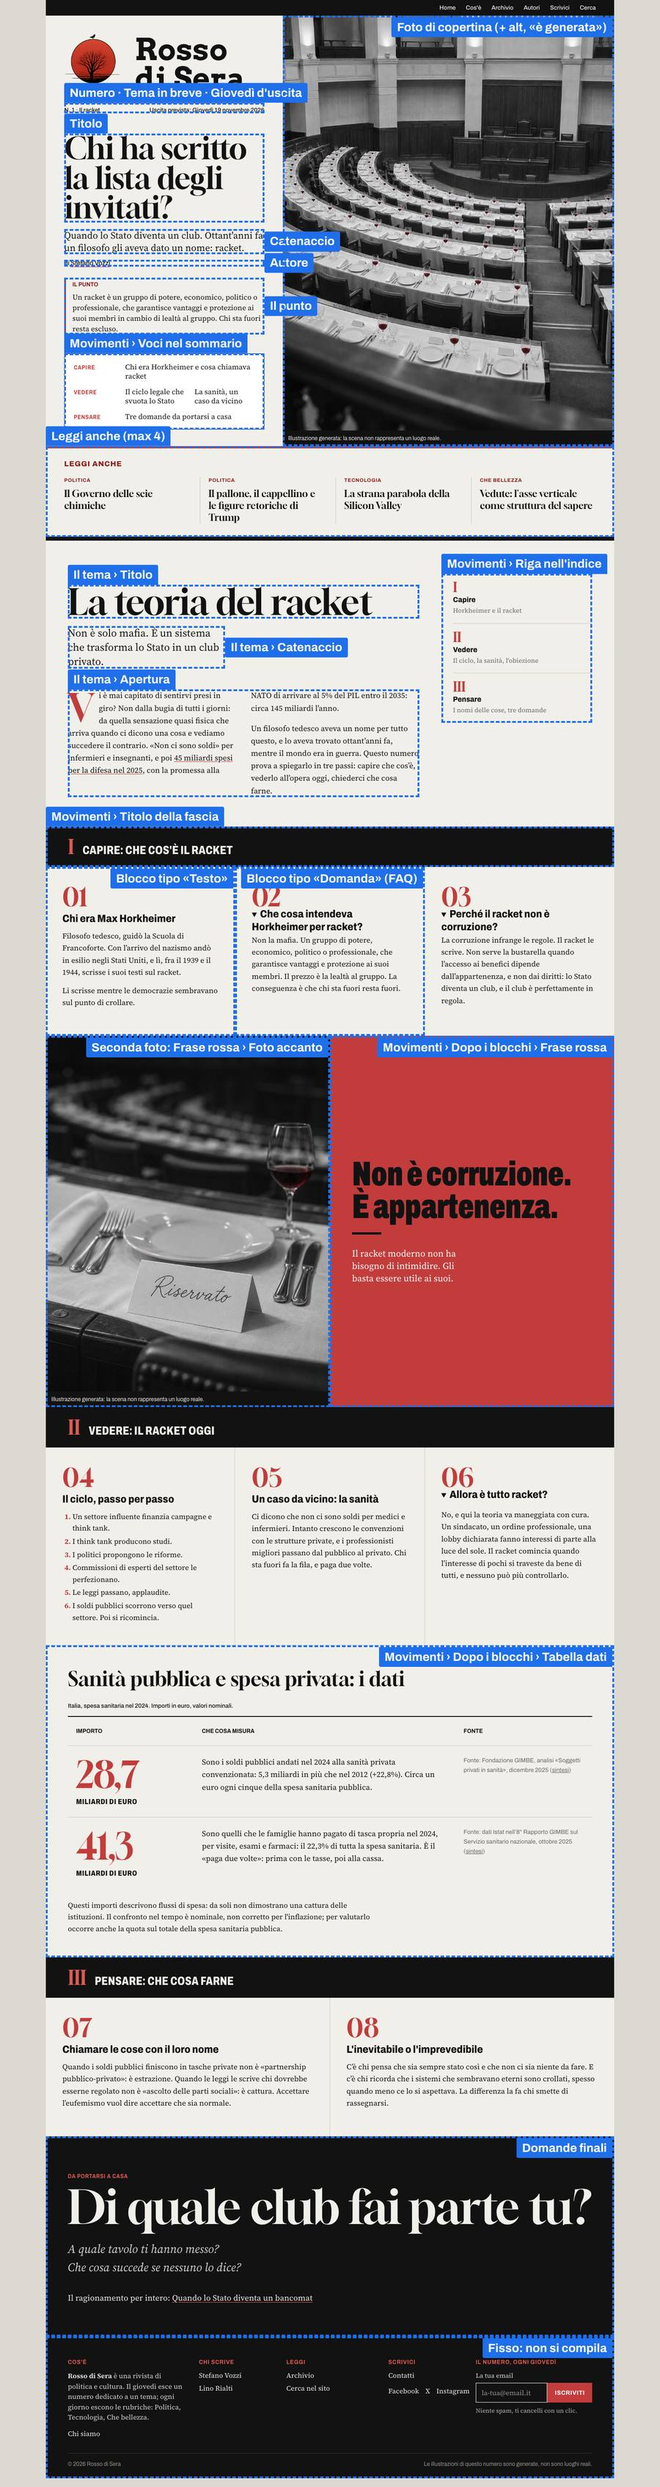
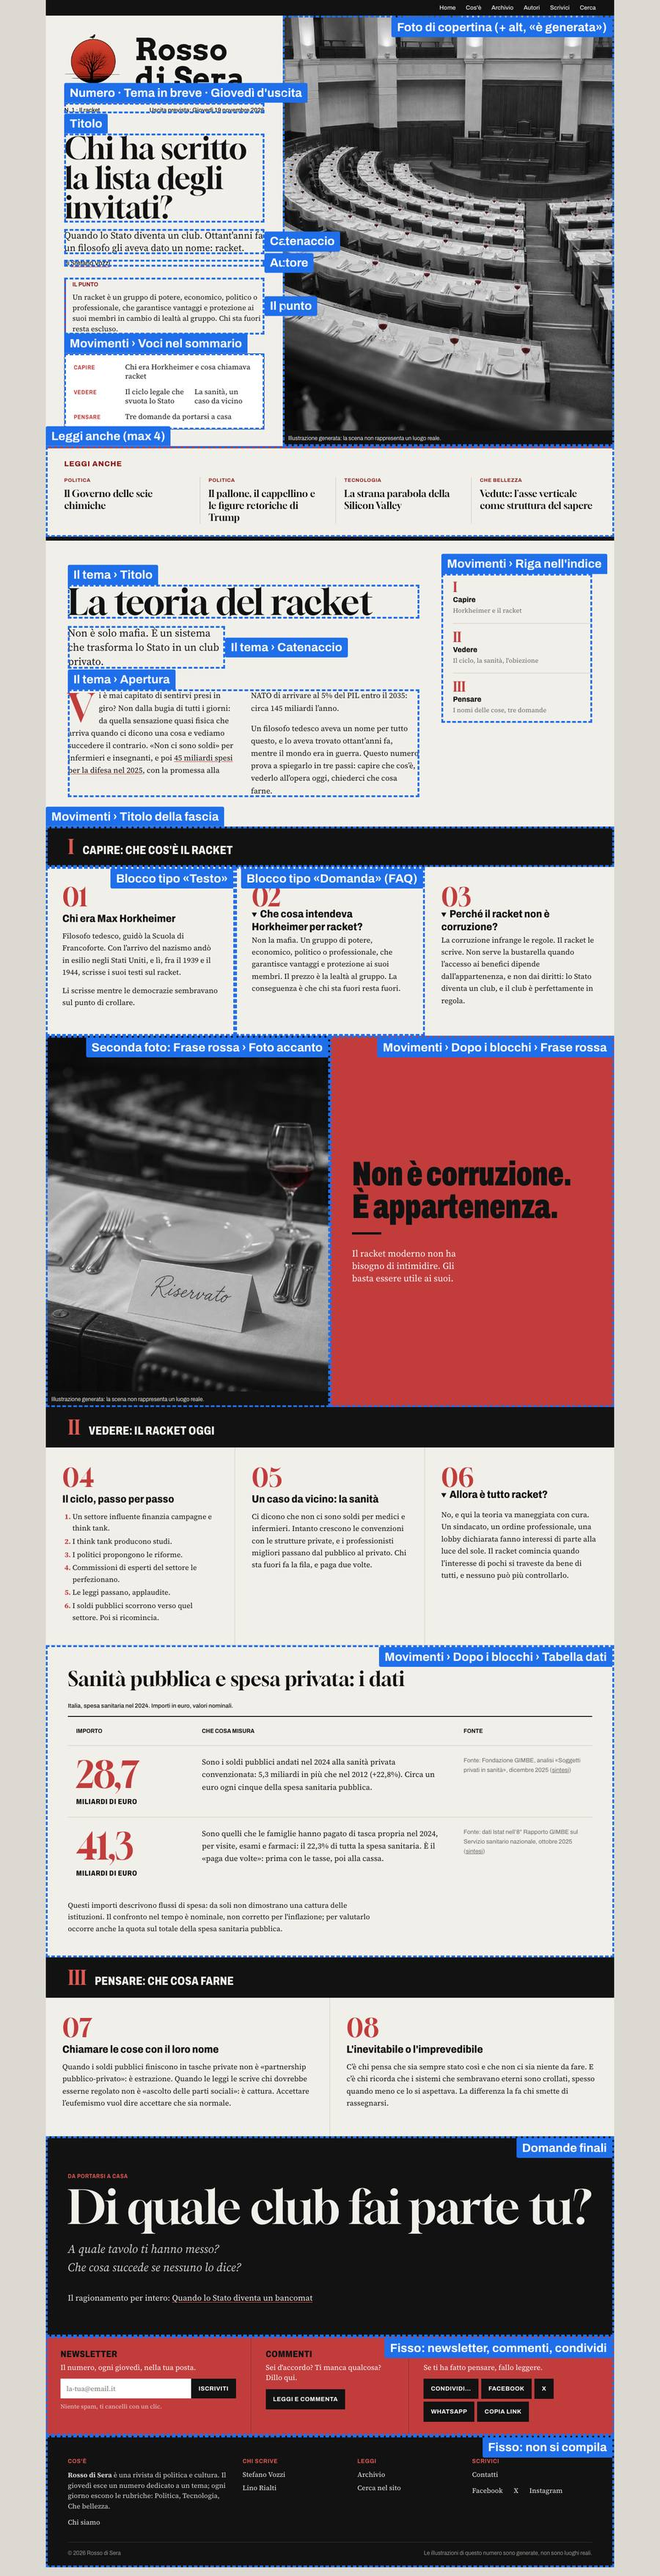
Numero: fascia rossa con newsletter, commenti e condividi tra le domande e la gerenza; gerenza sistemata sul telefono

diff --git a/_layouts/numero.html b/_layouts/numero.html
@@ -177,6 +177,50 @@
 {% endfor %}
 {% if page.articolo_origine %}<p class="dopo">Il ragionamento per intero: <a href="{{ page.articolo_origine.url | relative_url }}">{{ page.articolo_origine.titolo }}</a></p>{% endif %}
 </section>
+
+<!-- AZIONI: newsletter, commenti, condividi -->
+<section class="azioni" aria-label="Dopo la lettura">
+<div class="az-col">
+<div class="az-et">Newsletter</div>
+<form action="https://assets.mailerlite.com/jsonp/2497131/forms/194685494634742919/subscribe" class="rds-nl-form" method="post" target="_blank">
+<label class="az-txt" for="nl-email">Il numero, ogni giovedì, nella tua posta.</label>
+<div class="rds-nl-row">
+<input autocomplete="email" id="nl-email" name="fields[email]" placeholder="la-tua@email.it" required type="email">
+<button class="rds-nl-btn" type="submit">Iscriviti</button>
+</div>
+<input aria-hidden="true" autocomplete="off" class="rds-nl-hp" name="website" tabindex="-1" type="text">
+<input name="ml-submit" type="hidden" value="1">
+<input name="anticsrf" type="hidden" value="true">
+<p aria-live="polite" class="rds-nl-status" role="status">Niente spam, ti cancelli con un clic.</p>
+</form>
+</div>
+<div class="az-col">
+<div class="az-et">Commenti</div>
+<p class="az-txt">Sei d'accordo? Ti manca qualcosa? Dillo qui.</p>
+<button class="az-btn" type="button" aria-expanded="false" aria-controls="commenti" id="apri-commenti">Leggi e commenta</button>
+</div>
+<div class="az-col">
+<div class="az-et">Condividi</div>
+<p class="az-txt">Se ti ha fatto pensare, fallo leggere.</p>
+{%- capture url_pag -%}{{ page.url | absolute_url }}{%- endcapture -%}
+{%- capture testo_cond -%}{{ page.title }} · Rosso di Sera{%- endcapture %}
+<div class="az-share">
+<button class="az-btn az-nativo" type="button" hidden>Condividi…</button>
+<a class="az-btn" href="https://www.facebook.com/sharer/sharer.php?u={{ url_pag | url_encode }}" rel="noopener" target="_blank">Facebook</a>
+<a class="az-btn" href="https://x.com/intent/post?url={{ url_pag | url_encode }}&amp;text={{ testo_cond | url_encode }}" rel="noopener" target="_blank">X</a>
+<a class="az-btn" href="https://wa.me/?text={{ testo_cond | append: ' ' | append: url_pag | url_encode }}" rel="noopener" target="_blank">WhatsApp</a>
+<button class="az-btn az-copia" type="button" data-url="{{ url_pag }}">Copia link</button>
+</div>
+</div>
+</section>
+<section class="commenti" id="commenti" aria-label="Commenti" hidden>
+<h2>Commenti</h2>
+<div id="rds-comments">
+<div class="rds-reactions"></div>
+<div class="rds-newform"></div>
+<div class="rds-list"></div>
+</div>
+</section>
 </main>
 
 <footer class="gerenza">
@@ -200,22 +244,21 @@
 <a href="{{ '/contatti/' | relative_url }}">Contatti</a>
 <span class="g-social"><a href="https://www.facebook.com/profile.php?id=61550470389942" rel="noopener" target="_blank">Facebook</a><a href="https://x.com/di_rosso45458" rel="noopener" target="_blank">X</a><a href="https://www.instagram.com/rosso_di_sera_blog/" rel="noopener" target="_blank">Instagram</a></span>
 </div>
-<div class="g-col g-nl">
-<div class="g-et">Il numero, ogni giovedì</div>
-<form action="https://assets.mailerlite.com/jsonp/2497131/forms/194685494634742919/subscribe" class="rds-nl-form" method="post" target="_blank">
-<label class="rds-nl-label" for="nl-email">La tua email</label>
-<div class="rds-nl-row">
-<input autocomplete="email" id="nl-email" name="fields[email]" placeholder="la-tua@email.it" required type="email">
-<button class="rds-nl-btn" type="submit">Iscriviti</button>
-</div>
-<input aria-hidden="true" autocomplete="off" class="rds-nl-hp" name="website" tabindex="-1" type="text">
-<input name="ml-submit" type="hidden" value="1">
-<input name="anticsrf" type="hidden" value="true">
-<p aria-live="polite" class="rds-nl-status" role="status">Niente spam, ti cancelli con un clic.</p>
-</form>
-</div>
 <div class="g-fondo"><span>© {{ page.date | date: "%Y" }} Rosso di Sera</span>{% if page.image_generata %}<span>Le illustrazioni di questo numero sono generate, non sono luoghi reali.</span>{% endif %}</div>
 </footer>
+<script src="https://challenges.cloudflare.com/turnstile/v0/api.js" async defer></script>
+<script src="{{ '/assets/js/comments.js' | relative_url }}?v={{ site.time | date: '%s' }}" defer></script>
+<script>
+(function(){
+var b=document.getElementById('apri-commenti'),c=document.getElementById('commenti');
+function apri(){c.hidden=false;b.setAttribute('aria-expanded','true');b.textContent='Chiudi i commenti';}
+b.addEventListener('click',function(){if(c.hidden){apri();c.scrollIntoView({behavior:'smooth'});}else{c.hidden=true;b.setAttribute('aria-expanded','false');b.textContent='Leggi e commenta';}});
+if(location.hash==='#commenti'||/mod=/.test(location.hash))apri();
+var n=document.querySelector('.az-nativo');
+if(navigator.share&&matchMedia('(pointer:coarse)').matches){n.hidden=false;n.addEventListener('click',function(){navigator.share({title:document.title,url:document.querySelector('.az-copia').dataset.url}).catch(function(){});});}
+document.querySelector('.az-copia').addEventListener('click',function(e){var t=e.currentTarget;navigator.clipboard.writeText(t.dataset.url).then(function(){t.textContent='Copiato!';setTimeout(function(){t.textContent='Copia link';},2000);});});
+})();
+</script>
 <script>
 (function(){document.querySelectorAll('.rds-nl-form').forEach(function(form){form.addEventListener('submit',function(ev){ev.preventDefault();var st=form.querySelector('.rds-nl-status'),hp=form.querySelector('.rds-nl-hp'),btn=form.querySelector('.rds-nl-btn');if(hp&&hp.value){return;}btn.disabled=true;st.textContent='Invio in corso...';fetch(form.action,{method:'POST',body:new FormData(form)}).then(function(r){return r.json();}).then(function(d){if(d&&d.success){form.querySelector('.rds-nl-row').hidden=true;st.textContent="Quasi fatto! Ti abbiamo inviato un'email di conferma: aprila e clicca il pulsante per completare l'iscrizione.";}else{throw new Error('x');}}).catch(function(){btn.disabled=false;st.textContent='Qualcosa non ha funzionato. Riprova tra poco.';});});});})();
 </script>

diff --git a/assets/css/numero.css b/assets/css/numero.css
@@ -199,3 +199,44 @@ figure figcaption{position:static;padding:8px 12px;background:var(--ink);color:v
 .blocco .testo p{margin:0 0 .8em;font-size:16.5px}
 .prova{background:var(--rosso);color:#fff;text-align:center;font:700 12px/1.4 'Archivo';letter-spacing:.06em;text-transform:uppercase;padding:8px 16px;margin:0}
 .cop .firma+.punto{margin-top:24px}
+
+/* FASCIA AZIONI (16/11/2026): newsletter, commenti, condividi */
+.azioni{display:grid;grid-template-columns:1.3fr 1fr 1.3fr;background:var(--rosso);color:#fff}
+.az-col{padding:28px 32px 30px;border-right:1px solid rgba(0,0,0,.25);min-width:0}
+.az-col:last-child{border-right:0}
+.az-et{font:800 20px/1 'Archivo';font-stretch:80%;text-transform:uppercase;letter-spacing:.02em;color:var(--ink)}
+.az-txt{display:block;margin:8px 0 14px;font:400 16px/1.4 'Source Serif 4';color:#fff}
+.azioni .rds-nl-row input{border-color:#fff;background:#fff;color:var(--ink)}
+.azioni .rds-nl-row input::placeholder{color:#77736b}
+.azioni .rds-nl-btn{background:var(--ink);color:#fff}
+.azioni .rds-nl-status{color:#fff;opacity:.9;font-size:13px;margin:8px 0 0}
+.az-btn{display:inline-flex;align-items:center;min-height:44px;padding:0 16px;background:var(--ink);color:#fff;border:0;font:700 13px 'Archivo';letter-spacing:.04em;text-transform:uppercase;text-decoration:none;cursor:pointer}
+.az-btn:hover,.az-btn:focus-visible{background:#000;text-decoration:underline}
+.az-share{display:flex;flex-wrap:wrap;gap:6px}
+.azioni :focus-visible{outline-color:#fff}
+.commenti{background:var(--carta);padding:48px;border-top:1px solid var(--ink)}
+.commenti h2{margin:0 0 20px;font:400 40px/1 'Gloock'}
+.commenti #rds-comments{max-width:760px}
+.rds-reactions{display:flex;gap:.5rem;margin-bottom:1.5rem;flex-wrap:wrap}
+.rds-react{border:1px solid var(--filetto);background:#fff;border-radius:999px;padding:.3rem .8rem;cursor:pointer;font-size:1rem;min-height:44px}
+.rds-react.mine{background:rgba(194,60,60,.1);border-color:var(--rosso)}
+.rds-comment{padding:.8rem 0;border-top:1px solid var(--filetto)}
+.rds-meta{font:400 14px 'Archivo';color:var(--grigio);margin-bottom:.3rem}
+.rds-children{margin-left:1.5rem;border-left:2px solid var(--filetto);padding-left:1rem}
+.rds-reply,.rds-del{background:none;border:none;color:var(--rosso-marca);cursor:pointer;font:600 13px 'Archivo';padding:.4rem 0;min-height:44px}
+.rds-del{color:#b00;margin-left:.5rem}
+.rds-form{display:flex;flex-direction:column;gap:.6rem;margin:1rem 0}
+.rds-form input,.rds-form textarea{padding:.7rem;border:1px solid var(--ink);background:#fff;font:inherit}
+.rds-form textarea{min-height:110px;resize:vertical}
+.rds-form button[type=submit]{align-self:flex-start;background:var(--rosso);color:#fff;border:0;padding:0 20px;min-height:44px;font:700 13px 'Archivo';letter-spacing:.04em;text-transform:uppercase;cursor:pointer}
+.rds-note{font:400 12px 'Archivo';color:var(--grigio)}
+.rds-empty{color:var(--grigio)}
+@media(min-width:861px){.gerenza{grid-template-columns:1.6fr 1fr 1fr 1.2fr}}
+@media(max-width:860px){
+  .azioni{grid-template-columns:1fr}
+  .az-col{padding:24px 16px;border-right:0;border-bottom:1px solid rgba(0,0,0,.25)}
+  .az-col:last-child{border-bottom:0}
+  .commenti{padding:36px 16px}
+}
+@media print{.azioni,.commenti{display:none}}
+.g-social{flex-wrap:wrap;gap:0 24px}.g-social a{min-width:0}
